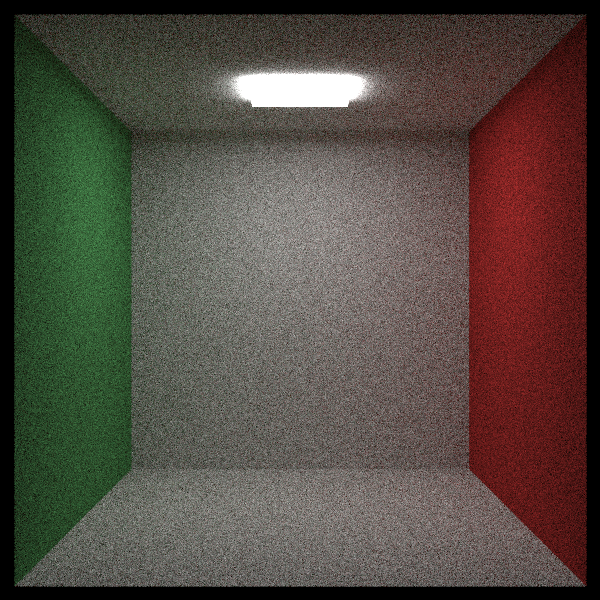
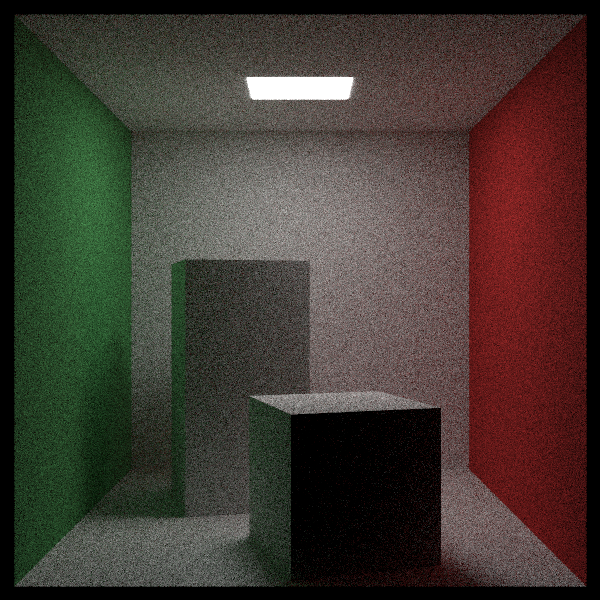
Added instancing

diff --git a/src/main.rs b/src/main.rs
@@ -18,21 +18,21 @@ use rand::rngs::ThreadRng;
 use rand::{thread_rng, Rng};
 use crate::camera::Camera;
 use crate::colour::{random_colour_light, random_colour_sq, Colour};
-use crate::hittables::{HittableList, Quadrilateral, Sphere, BVH};
+use crate::hittables::{make_box, HittableList, MovingObject, Quadrilateral, RotateY, Sphere, Translated, BVH};
 use crate::materials::{Dielectric, DiffuseLight, Lambertian, Material, Metal};
 use crate::textures::{Checker, ImageTexture, MarbleTexture, SolidColour, TextureWorld};
 use crate::vec3::{Point3, Vec3};
 
 
-fn random_material<'tex>(rng : &mut ThreadRng, textures : &'tex TextureWorld<'tex>) -> Box<dyn Material + 'tex> {
+fn random_material<'tex>(rng : &mut ThreadRng, textures : &'tex TextureWorld<'tex>) -> (bool, Box<dyn Material + 'tex>) {
     let choice = rng.gen::<f64>();
     if choice < 0.8 {
-        Box::new(Lambertian::new(textures.chose("dark", rng).unwrap()))
+        (true, Box::new(Lambertian::new(textures.chose("dark", rng).unwrap())))
     } else if choice < 0.95 {
         let fuzz = rng.gen::<f64>() * 0.5;
-        Box::new(Metal::new(textures.chose("light", rng).unwrap(), fuzz))
+        (false, Box::new(Metal::new(textures.chose("light", rng).unwrap(), fuzz)))
     } else {
-        Box::new(Dielectric::new(1.5))
+        (false, Box::new(Dielectric::new(1.5)))
     }
 }
 
@@ -84,7 +84,7 @@ fn many_spheres_scene(image_file : &str) {
     let material_ground = Lambertian::new(&ground_texture);
     let mut small_sphere_materials : Vec<Box<dyn Material>> = Vec::new();
     for _ in 0..small_sphere_num_total {
-        small_sphere_materials.push(random_material(&mut rng, &textures));
+        small_sphere_materials.push(random_material(&mut rng, &textures).1);
     }
     let sphere_material1 = Dielectric::new(1.5);
     let texture2 = SolidColour::new(&Colour::new(0.4, 0.2, 0.1));
@@ -110,6 +110,92 @@ fn many_spheres_scene(image_file : &str) {
     for (center, mat) in centers.iter().zip(small_sphere_materials.iter()) {
         let sphere = Box::new(Sphere::new(&center, 0.2, mat.as_ref()));
         world.add(sphere);
+    }
+
+    // Add big spheres
+    world.add(Box::new(Sphere::new(&Point3::new(0.0, 1.0, 0.0), 1.0, &sphere_material1)));
+    world.add(Box::new(Sphere::new(&Point3::new(-4.0, 1.0, 0.0), 1.0, &sphere_material2)));
+    world.add(Box::new(Sphere::new(&Point3::new(4.0, 1.0, 0.0), 1.0, &sphere_material3)));
+
+    let ordered_world = BVH::new(world);
+
+    // Output image
+    camera.render(image_file, &ordered_world)
+}
+
+fn bouncing_spheres(image_file : &str) {
+    // Camera
+    let aspect_ratio = 16.0 / 9.0;
+    let image_width : u32 = 800;
+    let samples_per_pixel = 400;
+    let max_depth : u8 = 50;
+    let fov : f64 = 20.0;
+    let camera = Camera::new(
+        &Point3::new(13.0, 2.0, 3.0),
+        &Point3::new(0.0, 0.0, 0.0),
+        &Vec3::new(0.0, 1.0, 0.0),
+        aspect_ratio,
+        image_width,
+        samples_per_pixel,
+        max_depth,
+        fov,
+        10.0,
+        0.6,
+        Colour::new(0.7, 0.8, 1.0)
+    );
+
+    let small_sphere_num_side = 11i64;
+    let small_sphere_num_total = 4 * small_sphere_num_side * small_sphere_num_side;
+
+    let mut rng : ThreadRng = thread_rng();
+
+    // Make textures
+    let mut textures = TextureWorld::new();
+    for _ in 0..small_sphere_num_side * 4 {
+        textures.add("dark", Box::new(SolidColour::new(&random_colour_sq(&mut rng))))
+    }
+    for _ in 0..small_sphere_num_side * 4 {
+        textures.add("light", Box::new(SolidColour::new(&random_colour_light(&mut rng))))
+    }
+
+    // Make materials
+    let ground_light = SolidColour::new(&Colour::new(0.9,0.9,0.9));
+    let ground_dark = SolidColour::new(&Colour::new(0.2,0.3,0.1));
+    let ground_texture = Checker::new(0.32, &ground_dark, &ground_light);
+    let material_ground = Lambertian::new(&ground_texture);
+    let mut small_sphere_materials : Vec<(bool, Box<dyn Material>)> = Vec::new();
+    for _ in 0..small_sphere_num_total {
+        small_sphere_materials.push(random_material(&mut rng, &textures));
+    }
+    let sphere_material1 = Dielectric::new(1.5);
+    let texture2 = SolidColour::new(&Colour::new(0.4, 0.2, 0.1));
+    let sphere_material2 = Lambertian::new(&texture2);
+    let texture3 = SolidColour::new(&Colour::new(0.7, 0.6, 0.5));
+    let sphere_material3 = Metal::new(&texture3, 0.0);
+
+    // Make world
+    let mut world = HittableList::new();
+    // Ground
+    world.add(Box::new(Sphere::new(&Point3::new(0.0, -1000.0, 0.0), 1000.0, &material_ground)));
+    // Small
+    let clearing = Point3::new(4.0, 0.2, 0.0);
+    let mut centers : Vec<Point3> = Vec::new();
+    for i in -small_sphere_num_side..small_sphere_num_side {
+        for j in -small_sphere_num_side..small_sphere_num_side {
+            let center = random_small_center(&mut rng, i, j);
+            if (center - clearing).length() > 0.9 {
+                centers.push(center);
+            }
+        }
+    }
+    for (center, (moving, mat)) in centers.iter().zip(small_sphere_materials.iter()) {
+        let sphere = Box::new(Sphere::new(&center, 0.2, mat.as_ref()));
+        if *moving {
+            let jump = Vec3::new(0.0, rng.gen::<f64>() * 0.4, 0.0);
+            world.add(Box::new(MovingObject::new(&jump, sphere)))
+        } else {
+            world.add(sphere);
+        }
     }
 
     // Add big spheres
@@ -338,7 +424,7 @@ fn cornell_box(image_file : &str) {
     // Camera
     let aspect_ratio = 1.0;
     let image_width : u32 = 600;
-    let samples_per_pixel = 400;
+    let samples_per_pixel = 500;
     let max_depth : u8 = 50;
     let fov : f64 = 40.0;
     let camera = Camera::new(
@@ -399,10 +485,25 @@ fn cornell_box(image_file : &str) {
     )));
     // Light
     world.add(Box::new(Quadrilateral::new(
-        &Point3::new(343.0, 544.0, 332.0),
+        &Point3::new(343.0, 554.0, 332.0),
         &Vec3::new(-130.0, 0.0, 0.0),
         &Vec3::new(0.0, 0.0, -105.0),
         &light_material
+    )));
+    // Boxes
+    let box1 = Box::new(make_box(
+        &Point3::zero(), &Point3::new(165.0,330.0,165.0), &white_material
+    ));
+    world.add(Box::new(Translated::new(
+        &Vec3::new(265.0,0.0,295.0),
+        Box::new(RotateY::new(15.0, box1))
+    )));
+    let box2 = Box::new(make_box(
+        &Point3::zero(), &Point3::new(165.0,165.0,165.0), &white_material
+    ));
+    world.add(Box::new(Translated::new(
+        &Vec3::new(130.0,0.0,65.0),
+        Box::new(RotateY::new(-18.0, box2))
     )));
     // Render
     camera.render(image_file, &world);
@@ -413,6 +514,7 @@ fn main() {
     let filename = "./renders/".to_string() + &scene + ".png";
     match scene.as_str() {
         "many_spheres" => many_spheres_scene(&filename),
+        "bouncing_spheres" => bouncing_spheres(&filename),
         "checkered_spheres" => checkered_spheres(&filename),
         "earth" => earth(&filename),
         "perlin_spheres" => perlin_spheres(&filename),

diff --git a/src/hittables.rs b/src/hittables.rs
@@ -217,6 +217,39 @@ impl<'a> Hittable for HittableList<'a> {
     }
 }
 
+pub fn make_box<'a>(a : &Point3, b : &Point3, mat : &'a dyn Material) -> HittableList<'a> {
+    let mut cube = HittableList::new();
+
+    let aabb = AABB::from_points(a, b);
+    let min_p = aabb.min_point();
+    let max_p = aabb.max_point();
+
+    let dx = Vec3::new(aabb.length(Axis3::X), 0.0, 0.0);
+    let dy = Vec3::new(0.0, aabb.length(Axis3::Y),0.0);
+    let dz = Vec3::new(0.0, 0.0, aabb.length(Axis3::Z));
+
+    cube.add(Box::new(
+        Quadrilateral::new(&min_p, &dx, &dy, mat)
+    ));
+    cube.add(Box::new(
+        Quadrilateral::new(&min_p, &dx, &dz, mat)
+    ));
+    cube.add(Box::new(
+        Quadrilateral::new(&min_p, &dy, &dz, mat)
+    ));
+    cube.add(Box::new(
+        Quadrilateral::new(&max_p, &-dx, &-dy, mat)
+    ));
+    cube.add(Box::new(
+        Quadrilateral::new(&max_p, &-dx, &-dz, mat)
+    ));
+    cube.add(Box::new(
+        Quadrilateral::new(&max_p, &-dy, &-dz, mat)
+    ));
+
+    cube
+}
+
 pub struct MovingObject<'a> {
     direction : Vec3,
     object : Box<dyn Hittable + 'a>
@@ -248,6 +281,93 @@ impl<'a> Hittable for MovingObject<'a> {
         let start = self.object.bounding_box();
         let end = start.translate(&self.direction);
         start.union(&end)
+    }
+}
+
+
+
+pub struct Translated<'a> {
+    direction : Vec3,
+    object : Box<dyn Hittable + 'a>
+}
+
+impl<'a> Translated<'a> {
+    pub fn new(direction : &Vec3, object : Box<dyn Hittable + 'a>) -> Translated<'a> {
+        Translated {
+            direction : *direction,
+            object
+        }
+    }
+}
+
+impl<'a> Hittable for Translated<'a> {
+    fn hit(&self, ray: &Ray, ray_t: &Interval) -> Option<HitRecord> {
+        let moved_ray = Ray::new(&(ray.origin - self.direction), &ray.direction, ray.time);
+        self.object.hit(&moved_ray, ray_t).map(
+            |record| {
+                let mut record_mut = record;
+                record_mut.point = record_mut.point + self.direction;
+                record_mut
+            }
+        )
+    }
+
+    fn bounding_box(&self) -> AABB {
+        self.object.bounding_box().translate(&self.direction)
+    }
+}
+
+pub struct RotateY<'a> {
+    angle_cos : f64,
+    angle_sin : f64,
+    object : Box<dyn Hittable + 'a>,
+    bounding_box : AABB
+}
+
+fn rotate_y_vec(angle_c :f64, angle_s : f64, v : &Vec3) -> Vec3 {
+    Vec3::new(
+        angle_c * v.x() + angle_s * v.z(),
+        v.y(),
+        -angle_s * v.x() + angle_c * v.z()
+    )
+}
+
+
+impl<'a> RotateY<'a> {
+    pub fn new(angle : f64, object : Box<dyn Hittable + 'a>) -> RotateY<'a> {
+        let mut aabb = AABB::empty();
+        let angle_rad = angle * PI / 180.0;
+        let angle_cos = angle_rad.cos();
+        let angle_sin = (1.0 - angle_cos * angle_cos).sqrt();
+        for point in object.bounding_box().points() {
+            aabb.expand(&rotate_y_vec(angle_cos, angle_sin, &point));
+        }
+
+        RotateY {
+            angle_cos,
+            angle_sin,
+            object,
+            bounding_box : aabb
+        }
+    }
+}
+
+impl<'a> Hittable for RotateY<'a> {
+    fn hit(&self, ray: &Ray, ray_t: &Interval) -> Option<HitRecord> {
+        let r_origin = rotate_y_vec(self.angle_cos, -self.angle_sin, &ray.origin);
+        let r_direction = rotate_y_vec(self.angle_cos, -self.angle_sin, &ray.direction);
+        let r_ray = Ray::new(&r_origin, &r_direction, ray.time);
+        self.object.hit(&r_ray, ray_t).map(
+            |record| {
+                let mut record_mut = record;
+                record_mut.point = rotate_y_vec(self.angle_cos, self.angle_sin, &record_mut.point);
+                record_mut
+            }
+        )
+    }
+
+    fn bounding_box(&self) -> AABB {
+        self.bounding_box.clone()
     }
 }
 

diff --git a/src/aabb.rs b/src/aabb.rs
@@ -77,6 +77,12 @@ impl AABB {
         }
     }
 
+    pub fn expand(&mut self, point : &Point3) {
+        self.intervals[0].expand(point.x());
+        self.intervals[1].expand(point.y());
+        self.intervals[2].expand(point.z());
+    }
+
     pub fn union(&self, other : &AABB) -> AABB {
         AABB {
             intervals : [
@@ -111,5 +117,33 @@ impl AABB {
         self.intervals[0].pad(min);
         self.intervals[1].pad(min);
         self.intervals[2].pad(min);
+    }
+
+    pub fn min_point(&self) -> Point3 {
+        Point3::new(
+            self.x().min,
+            self.y().min,
+            self.z().min
+        )
+    }
+
+    pub fn max_point(&self) -> Point3 {
+        Point3::new(
+            self.x().max,
+            self.y().max,
+            self.z().max
+        )
+    }
+
+    pub fn points(&self) -> [Point3; 8] {
+        [Point3::new(self.x().min, self.y().min, self.z().min),
+            Point3::new(self.x().min, self.y().min, self.z().max),
+            Point3::new(self.x().min, self.y().max, self.z().min),
+            Point3::new(self.x().min, self.y().max, self.z().max),
+            Point3::new(self.x().max, self.y().min, self.z().min),
+            Point3::new(self.x().max, self.y().min, self.z().max),
+            Point3::new(self.x().max, self.y().max, self.z().min),
+            Point3::new(self.x().max, self.y().max, self.z().max)
+        ]
     }
 }

diff --git a/src/interval.rs b/src/interval.rs
@@ -83,6 +83,15 @@ impl Interval {
         }
     }
 
+    pub fn expand(&mut self, val : f64) {
+        if self.min > val {
+            self.min = val;
+        }
+        if self.max < val {
+            self.max = val;
+        }
+    }
+
     pub fn union(&self, other : &Interval) -> Interval {
         let t_min = if self.min < other.min {
             self.min
